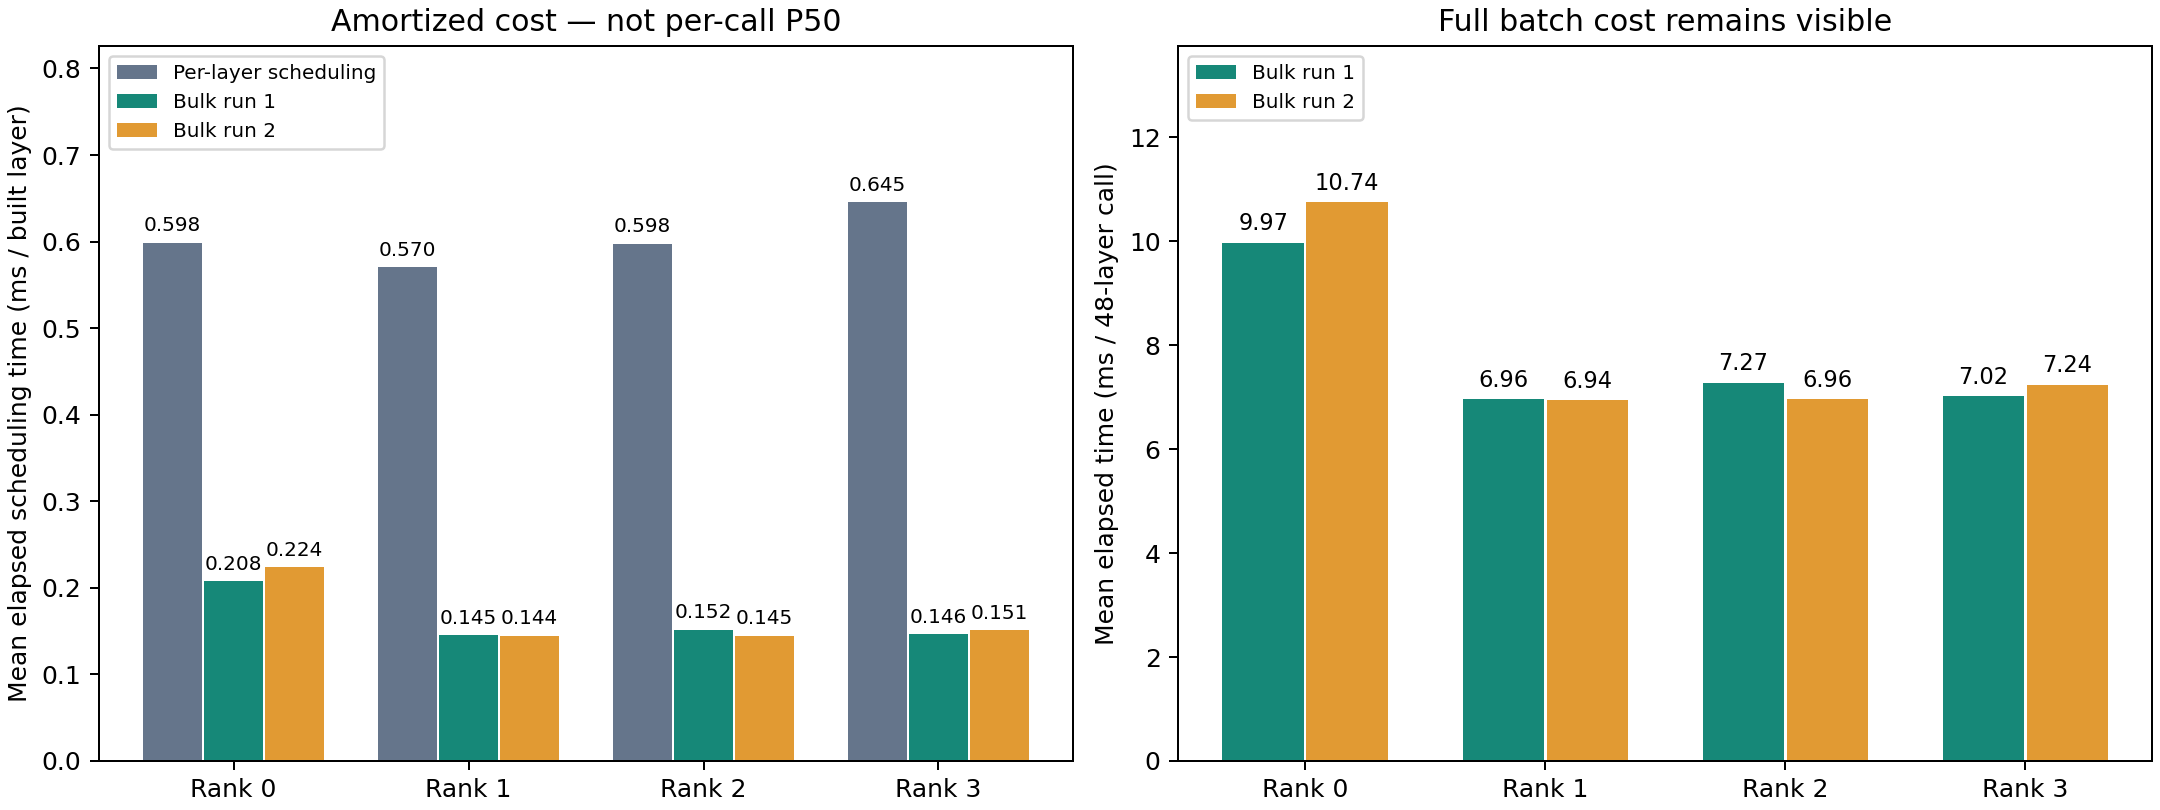
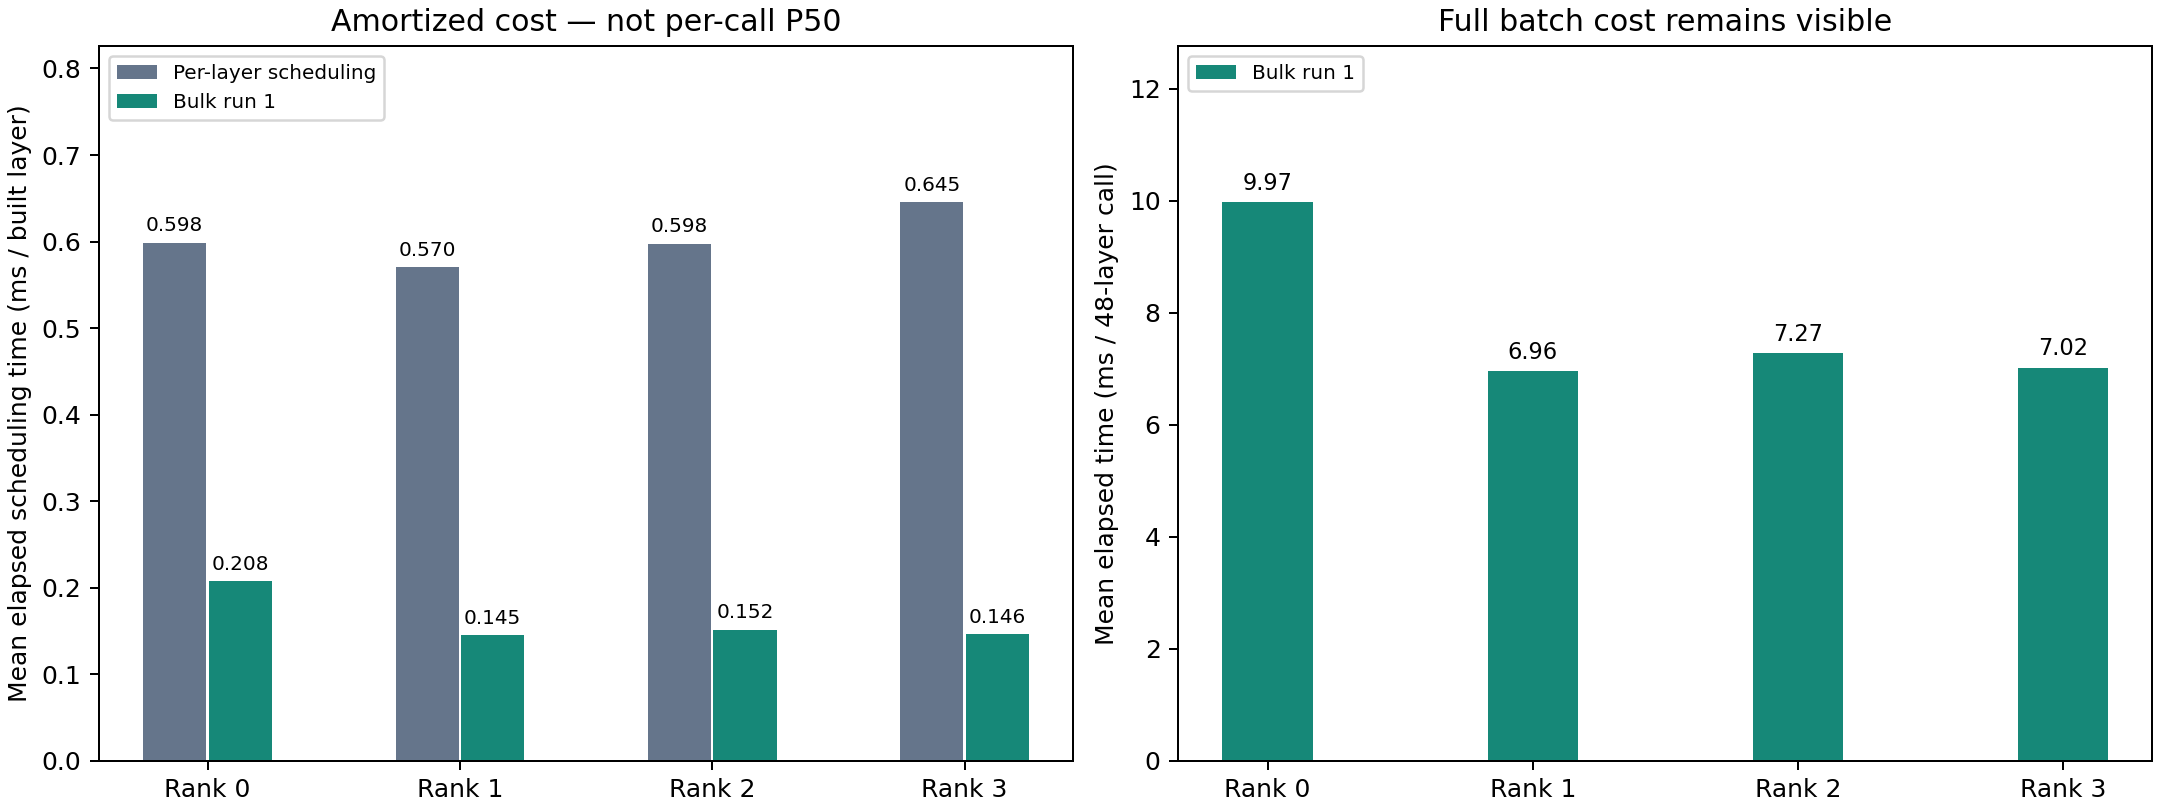
Simplify bulk scheduling profile presentation to first run

diff --git a/benchmarks/eplb_rebalance/plot_bulk_profile.py b/benchmarks/eplb_rebalance/plot_bulk_profile.py
@@ -13,22 +13,21 @@ SOURCE = ROOT / "scheduler_exploration_20260910/dense_comparison"
 DEST = ROOT / "serving_trace_20260910"
 rows = list(csv.DictReader((SOURCE / "bulk_serving_comparison.csv").open()))
 fig, axes = plt.subplots(1, 2, figsize=(12, 4.5), layout="constrained")
-colors = ["#65758b", "#168878", "#e19a33"]
+colors = ["#65758b", "#168878"]
 for i, (label, group) in enumerate(
     [
         ("Per-layer scheduling", rows[:4]),
         ("Bulk run 1", rows[4:8]),
-        ("Bulk run 2", rows[8:]),
     ]
 ):
-    x = np.arange(4) + (i - 1) * 0.26
+    x = np.arange(4) + (i - 0.5) * 0.26
     values = [float(r["normalized_ms_per_layer"]) for r in group]
     bars = axes[0].bar(x, values, 0.25, label=label, color=colors[i])
     axes[0].bar_label(bars, fmt="%.3f", fontsize=8, padding=3)
-for i, group in enumerate([rows[4:8], rows[8:]]):
+for i, group in enumerate([rows[4:8]]):
     values = [float(r["total_ms"]) / int(r["nvtx_calls"]) for r in group]
     bars = axes[1].bar(
-        np.arange(4) + (i - 0.5) * 0.35,
+        np.arange(4),
         values,
         0.34,
         label=f"Bulk run {i + 1}",

diff --git a/benchmarks/eplb_rebalance/README.md b/benchmarks/eplb_rebalance/README.md
@@ -188,26 +188,27 @@ The trace includes serving NVTX events such as `execute_context_*`; it does not
 include CUDA kernel timing. Profiling builds add an NVTX range alongside the
 production `record_function` marker.
 
-Two fresh-server runs each completed 8/8 requests and profiler shutdown. All
-scheduler ranges in each capture (including warmup) are counted. Each rank had
-two 48-layer calls in run 1 and three in run 2.
+The table and plot show Bulk run 1, which completed 8/8 requests and profiler
+shutdown. All scheduler ranges in the capture (including warmup) are counted:
+each rank had two 48-layer calls. Bulk run 2 repeats the same implementation and
+parameters; its raw files remain available for reproducibility.
 
-| Rank | Run 1 total / calls | Run 1 mean ms/built layer | Run 2 total / calls | Run 2 mean ms/built layer |
-| --- | ---: | ---: | ---: | ---: |
-| 0 | 19.936 ms / 2 | 0.208 | 32.226 ms / 3 | 0.224 |
-| 1 | 13.920 ms / 2 | 0.145 | 20.806 ms / 3 | 0.144 |
-| 2 | 14.549 ms / 2 | 0.152 | 20.870 ms / 3 | 0.145 |
-| 3 | 14.037 ms / 2 | 0.146 | 21.713 ms / 3 | 0.151 |
+| Rank | Total / calls | Mean ms/built layer |
+| --- | ---: | ---: |
+| 0 | 19.936 ms / 2 | 0.208 |
+| 1 | 13.920 ms / 2 | 0.145 |
+| 2 | 14.549 ms / 2 | 0.152 |
+| 3 | 14.037 ms / 2 | 0.146 |
 
 Amortized mean = sum of full scheduling range durations / (number of cycle calls
-× 48). This is not a measured single-layer P50 or P99; 2–3 calls per rank are
-insufficient for useful tail estimates. Full calls average 6.94–10.74 ms.
+× 48). This is not a measured single-layer P50 or P99; two calls per rank are
+insufficient for useful tail estimates. Full calls average 6.96–9.97 ms.
 Precomputation may build schedules for layers not consumed before a cycle stops.
 The entire computation is charged here, rather than only the lookup during transfer.
 
 Compared with the separate per-layer-scheduling control, normalized mean cost
-fell from 0.603 to 0.163/0.166 ms per built layer in the two runs. This is
-preliminary evidence from one control run and two candidate runs, not a guarantee
+fell from 0.603 to 0.163 ms per built layer in the displayed run. This is
+preliminary evidence from a short profiling comparison, not a guarantee
 for other workloads. Concentrating CPU work may also change inference interference.
 
 ![Scheduling cost per built layer and full cycle](https://raw.githubusercontent.com/DOCCA0/vllm/refs/heads/ilp/benchmarks/eplb_rebalance/results/serving_trace_20260910/bulk_scheduler.png)
@@ -218,14 +219,12 @@ Short profiled serving runs (not substitutes for the full benchmark above):
 | --- | ---: | ---: | ---: | ---: | ---: | ---: |
 | Per-layer control | 8 | 121.40 | 19.77 | 17,072.31 / 17,074.23 | 348.90 / 387.54 | 121,393.62 / 121,395.09 |
 | Bulk run 1 | 8 | 113.91 | 21.07 | 17,451.02 / 17,453.58 | 322.59 / 362.21 | 113,905.64 / 113,908.33 |
-| Bulk run 2 | 8 | 117.56 | 20.42 | 20,347.43 / 20,350.26 | 325.11 / 376.77 | 117,554.23 / 117,557.05 |
 
-TTFT increased in these short runs; reduced scheduling cost does not establish
+TTFT increased in this short comparison; reduced scheduling cost does not establish
 that every serving metric improves.
 
 [Unmodified JSON, four-rank reports, and complete commands](https://github.com/DOCCA0/vllm/tree/ilp/benchmarks/eplb_rebalance/results/serving_trace_20260910).
-Open `bulk_precompute_retry/rank0.nsys-rep` or
-`bulk_precompute_repeat2/rank0.nsys-rep` in Nsight Systems 2024.5.1 or newer.
+Open `bulk_precompute_retry/rank0.nsys-rep` in Nsight Systems 2024.5.1 or newer.
 
 ### Historical cost/saved comparison
 
